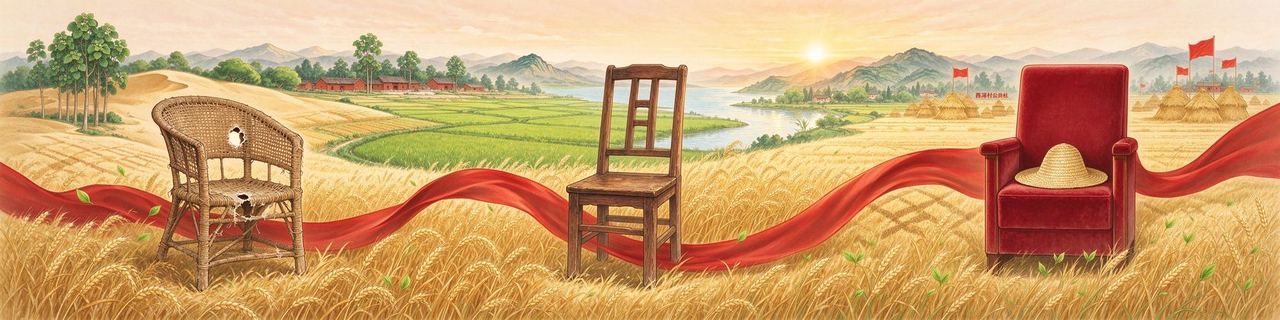
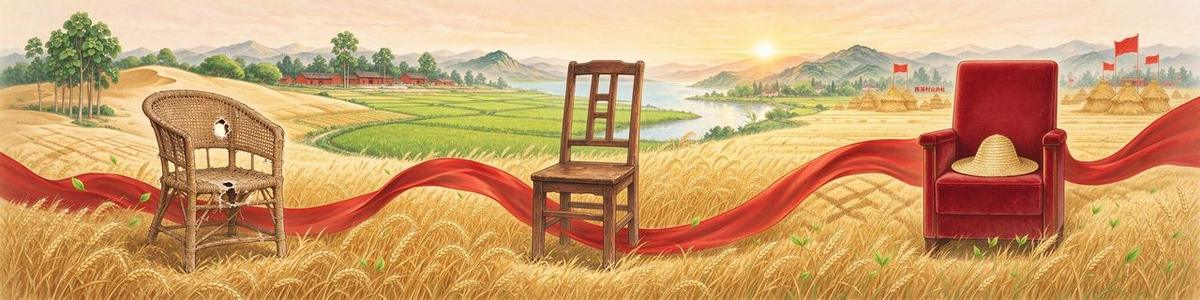
Add files via upload

diff --git a/js/app.js b/js/app.js
@@ -956,9 +956,9 @@ function bind(){
   document.querySelectorAll('[data-nav]').forEach(el=>el.onclick=()=>navTo(el.dataset.nav==='home'?'':el.dataset.nav));
   document.querySelectorAll('[data-go]').forEach(el=>{
     const go=el.dataset.go;
-    // 故事内的「上一把/下一把」不打断叙事，直接跳转；其余入口统一先"坐下"（弹第一人称信件）
-    if(el.closest('.story-nav')){ el.onclick=()=>navTo(go); }
-    else el.onclick=()=>openLetter(go);
+    // 所有入口（含故事页的「上一把／下一把」）统一走 openLetter：
+    // 没读过就弹信，读过则直接跳转（openLetter 内部处理）
+    el.onclick=()=>openLetter(go);
   });
   document.querySelectorAll('[data-open-report]').forEach(el=>el.onclick=openReport);
 
@@ -1245,7 +1245,7 @@ function initIntro(){
   ov.querySelector('[data-into-main]').onclick=done;
   ov.querySelector('[data-into-skip]').onclick=done;
   // 自动播完兜底（约 6s）
-  setTimeout(done,6000);
+  setTimeout(done,3200);
 }
 
 /* ---------- 助农护照：三条线 + 三问 + 记忆卡，合成一页可截图/可打印的凭证 ---------- */
@@ -1316,8 +1316,11 @@ function viewPassport(){
   </section>`;
 }
 
+let _lastHash=null;
 function render(){
   const h=location.hash.replace('#','');
+  const isNav=(_lastHash!==h);   // 只有"换页"才滚到顶，作答重绘不滚
+  _lastHash=h;
   root.innerHTML='';
   if(_dyn){ cancelAnimationFrame(_dyn); _dyn=null; }
   if(h==='final'){ root.innerHTML=viewFinal(); renderCrumbs('final'); }
@@ -1325,6 +1328,17 @@ function render(){
   else if(h&&CHAIRS.some(c=>c.id===h)){ root.innerHTML=viewStory(h); renderCrumbs(h); }
   else{ root.innerHTML=viewHome(); renderCrumbs(''); initIntro(); }
   bind();
+  if(isNav){
+    // 立即回到顶部：页面 CSS 有 scroll-behavior:smooth，必须显式 instant，否则会"慢慢滑上去"
+    try{ window.scrollTo({top:0,left:0,behavior:'instant'}); }
+    catch(e){
+      const html=document.documentElement;
+      const prev=html.style.scrollBehavior;
+      html.style.scrollBehavior='auto';
+      window.scrollTo(0,0);
+      html.style.scrollBehavior=prev;
+    }
+  }
 }
 window.addEventListener('hashchange',render);
 render();

diff --git a/index.html b/index.html
@@ -34,6 +34,8 @@
 .bg-dangjia-past{background-image:image-set(url('./assets/images/base_dangjia_past.webp') type("image/webp"),url('./assets/images/base_dangjia_past.jpg') type("image/jpeg"))}
 </style>
 <link rel="preload" as="image" href="assets/images/panorama.webp" type="image/webp">
+<link rel="preload" as="script" href="js/app.js?v=20261105a">
+<link rel="preload" as="script" href="js/data.js?v=20261105a">
 </head>
 <body>
 <div class="bg-tex" aria-hidden="true"></div>
